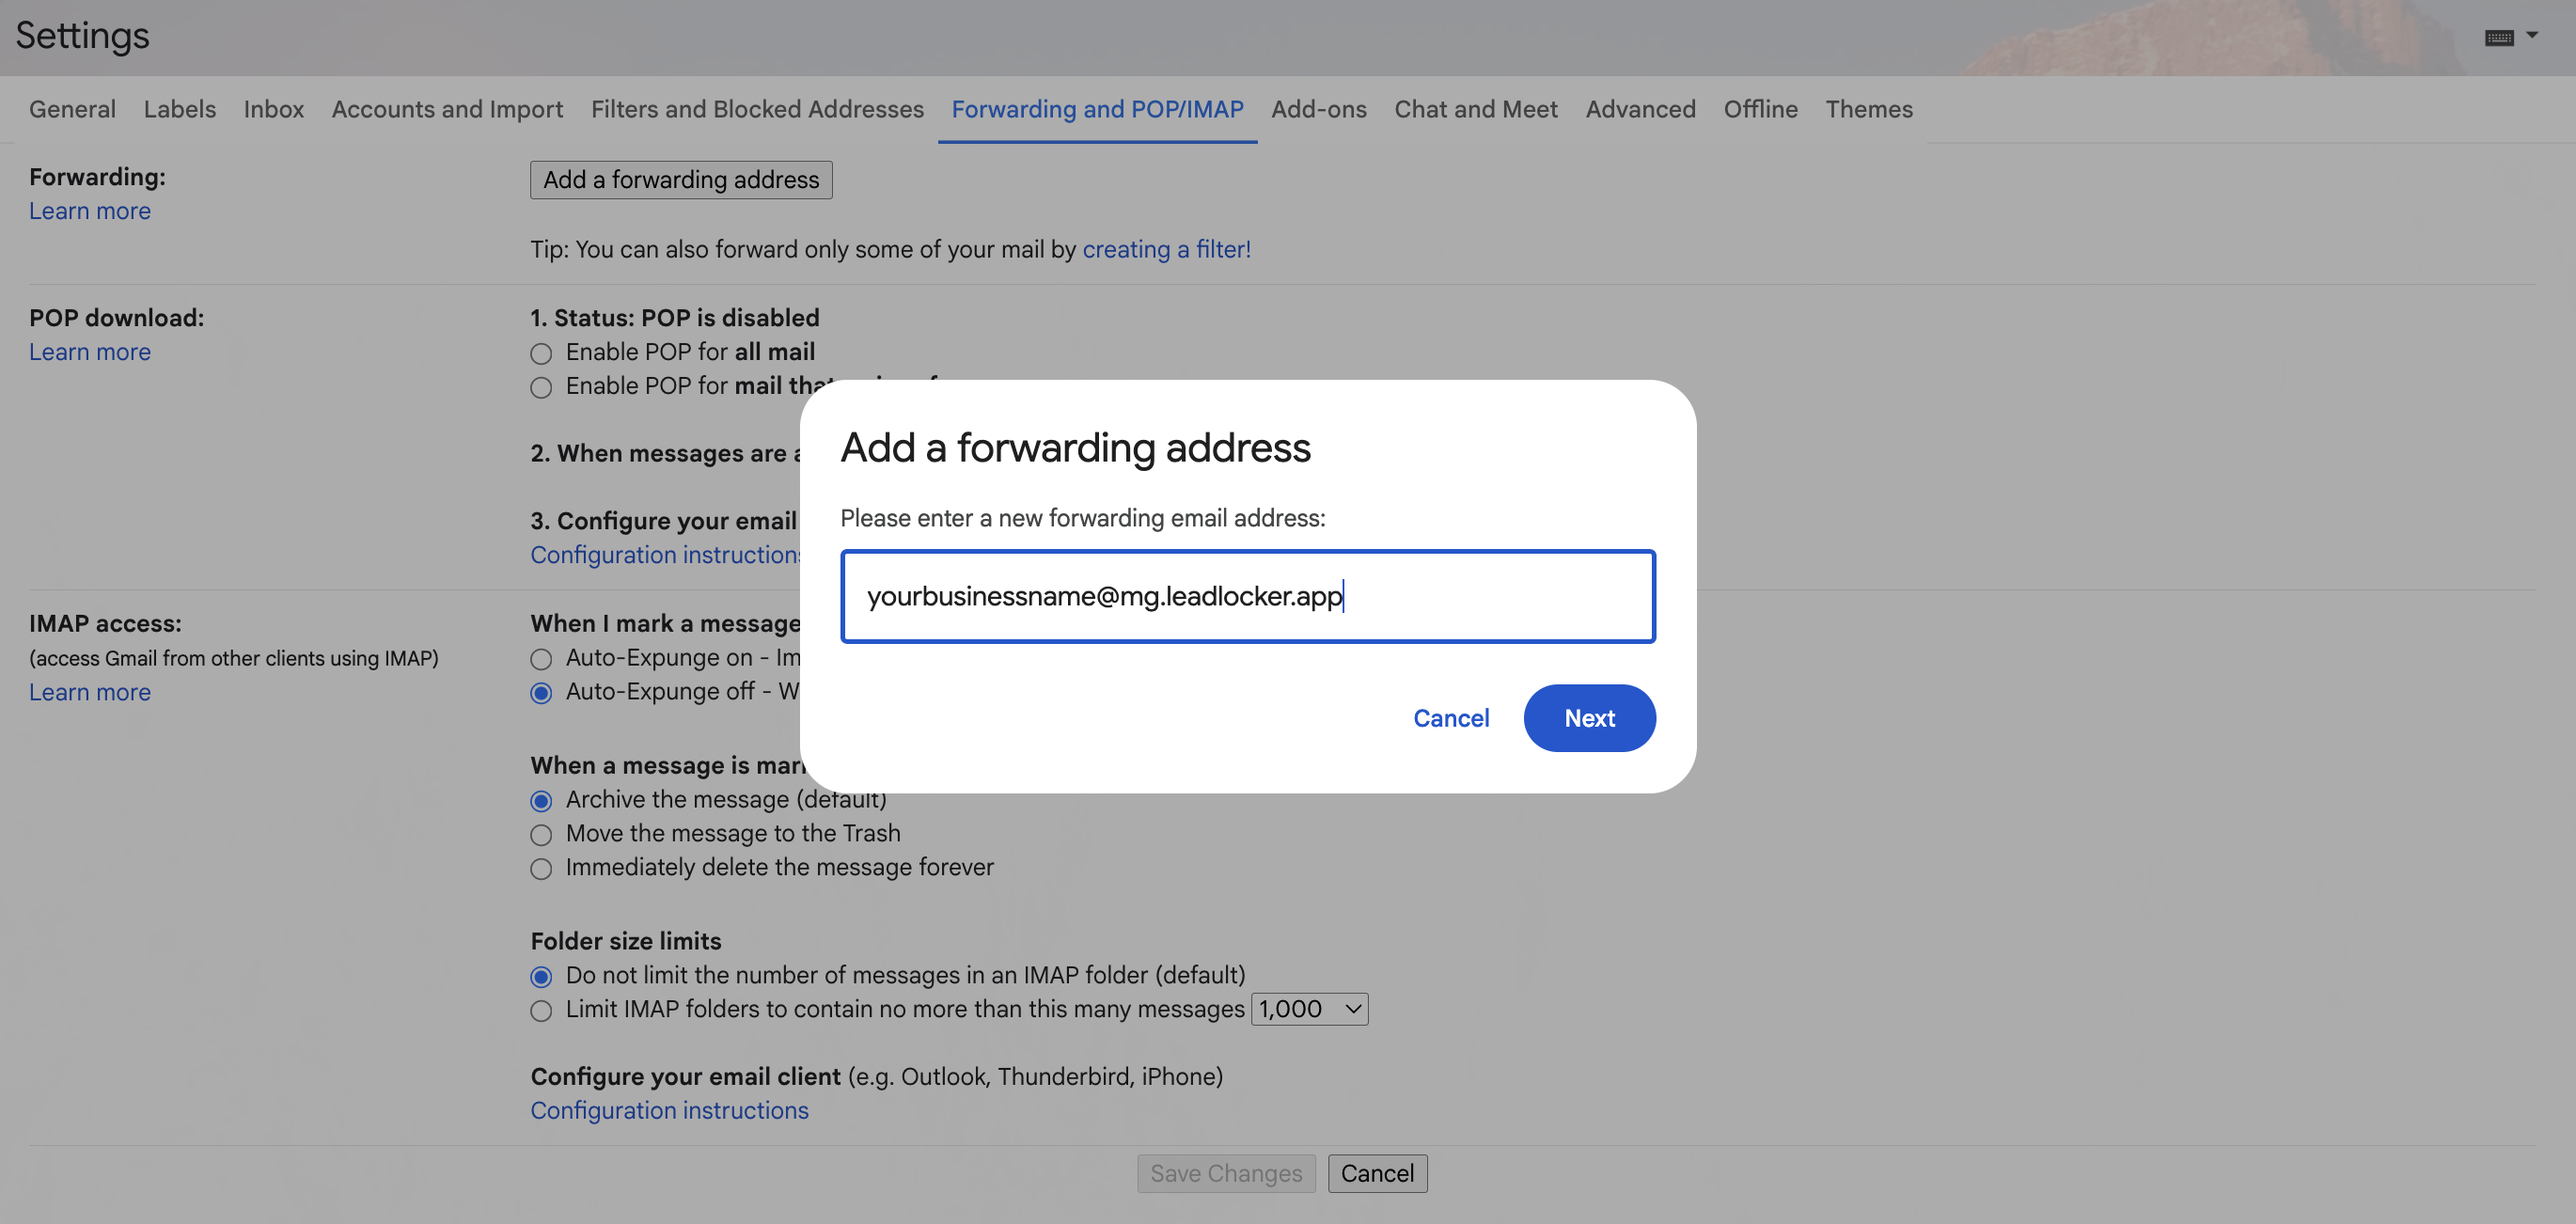
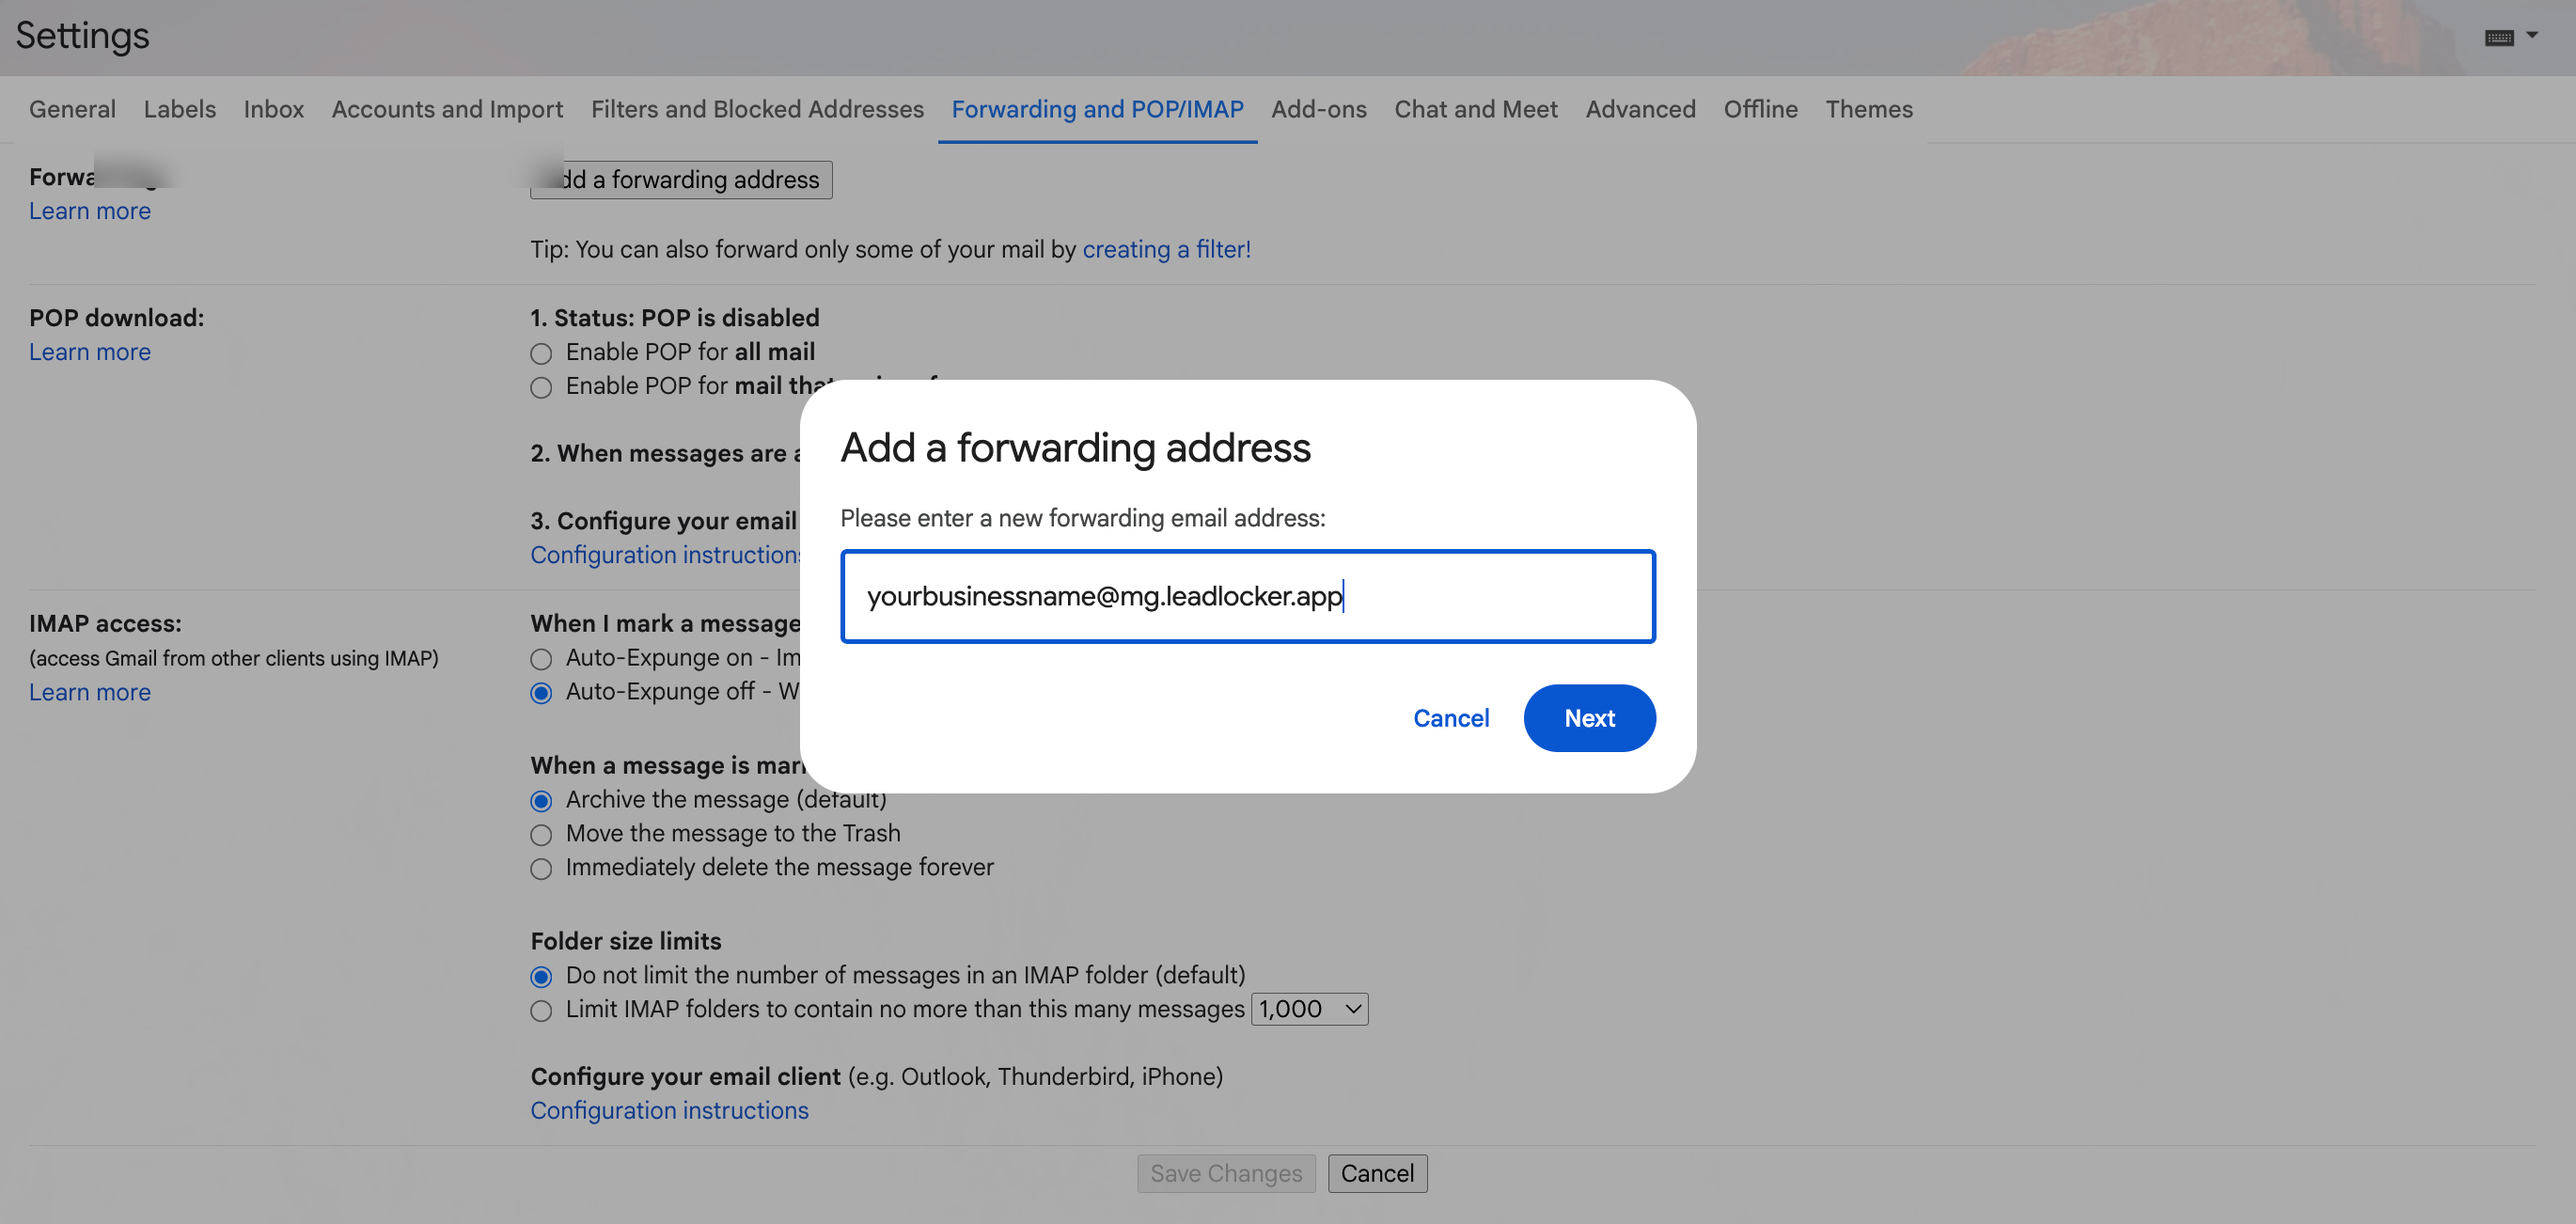
feat: blur personal email addresses in onboarding screenshots

Changed region(s): [[0.3412, 0.5223, 0.6515, 0.6144], [0.3412, 0.4301, 0.6515, 0.4608], [0.031, 0.1229, 0.062, 0.1536]]

diff --git a/scripts/blur-email-in-images.js b/scripts/blur-email-in-images.js
@@ -1,0 +1,122 @@
+const sharp = require('sharp');
+const fs = require('fs');
+const path = require('path');
+
+const imagesDir = path.join(__dirname, '../public/onboarding');
+const emailToBlur = 'adrianmorosin02@gmail.com';
+
+async function blurEmailInImage(imagePath, blurRegions) {
+  try {
+    const image = sharp(imagePath);
+    const metadata = await image.metadata();
+    
+    // Load original
+    const original = await image.toBuffer();
+    
+    // Create blurred composites for each region
+    const composites = await Promise.all(
+      blurRegions.map(async (region) => {
+        const extractWidth = Math.min(region.width, metadata.width - region.x);
+        const extractHeight = Math.min(region.height, metadata.height - region.y);
+        
+        if (extractWidth <= 0 || extractHeight <= 0) {
+          return null;
+        }
+        
+        const blurredRegion = await sharp(original)
+          .extract({
+            left: Math.max(0, region.x),
+            top: Math.max(0, region.y),
+            width: extractWidth,
+            height: extractHeight,
+          })
+          .blur(15)
+          .toBuffer();
+        
+        return {
+          input: blurredRegion,
+          left: Math.max(0, region.x),
+          top: Math.max(0, region.y),
+        };
+      })
+    );
+    
+    // Filter out null composites
+    const validComposites = composites.filter(c => c !== null);
+    
+    if (validComposites.length > 0) {
+      await sharp(original)
+        .composite(validComposites)
+        .toFile(imagePath);
+      
+      console.log(`✅ Blurred ${validComposites.length} region(s) in ${path.basename(imagePath)}`);
+    } else {
+      console.log(`⚠  No valid regions to blur in ${path.basename(imagePath)}`);
+    }
+  } catch (error) {
+    console.error(`❌ Error processing ${imagePath}:`, error.message);
+  }
+}
+
+async function main() {
+  const images = [
+    {
+      file: 'gmail-confirmation.png',
+      regions: [
+        // Blur the email address area (typically center of confirmation page)
+        { x: 100, y: 200, width: 600, height: 50 }, // Email address area
+      ],
+    },
+    {
+      file: 'gmail-settings.png',
+      regions: [
+        // Blur any email addresses that might appear (usually in top area or center)
+        { x: 0, y: 0, width: 1200, height: 100 }, // Top banner area
+      ],
+    },
+    {
+      file: 'forwarding-toggle-on.png',
+      regions: [
+        // Blur email in banner and any visible email addresses
+        { x: 0, y: 0, width: 1600, height: 80 }, // Top banner with email
+        { x: 200, y: 300, width: 500, height: 40 }, // Email in forwarding section
+      ],
+    },
+    {
+      file: 'pink-banner.png',
+      regions: [
+        // Blur email in the pink banner
+        { x: 0, y: 0, width: 1600, height: 80 }, // Top banner
+      ],
+    },
+    {
+      file: 'save-changes.png',
+      regions: [
+        // Same as pink-banner since it's the same image
+        { x: 0, y: 0, width: 1600, height: 80 }, // Top banner
+        { x: 200, y: 300, width: 500, height: 40 }, // Email in forwarding section
+      ],
+    },
+    {
+      file: 'gmail-modal.png',
+      regions: [
+        // Blur email in the input field
+        { x: 100, y: 150, width: 500, height: 50 }, // Input field area
+      ],
+    },
+  ];
+
+  for (const img of images) {
+    const imagePath = path.join(imagesDir, img.file);
+    if (fs.existsSync(imagePath)) {
+      await blurEmailInImage(imagePath, img.regions);
+    } else {
+      console.warn(`⚠  Image not found: ${img.file}`);
+    }
+  }
+  
+  console.log('✨ Done blurring email addresses!');
+}
+
+main().catch(console.error);
+
